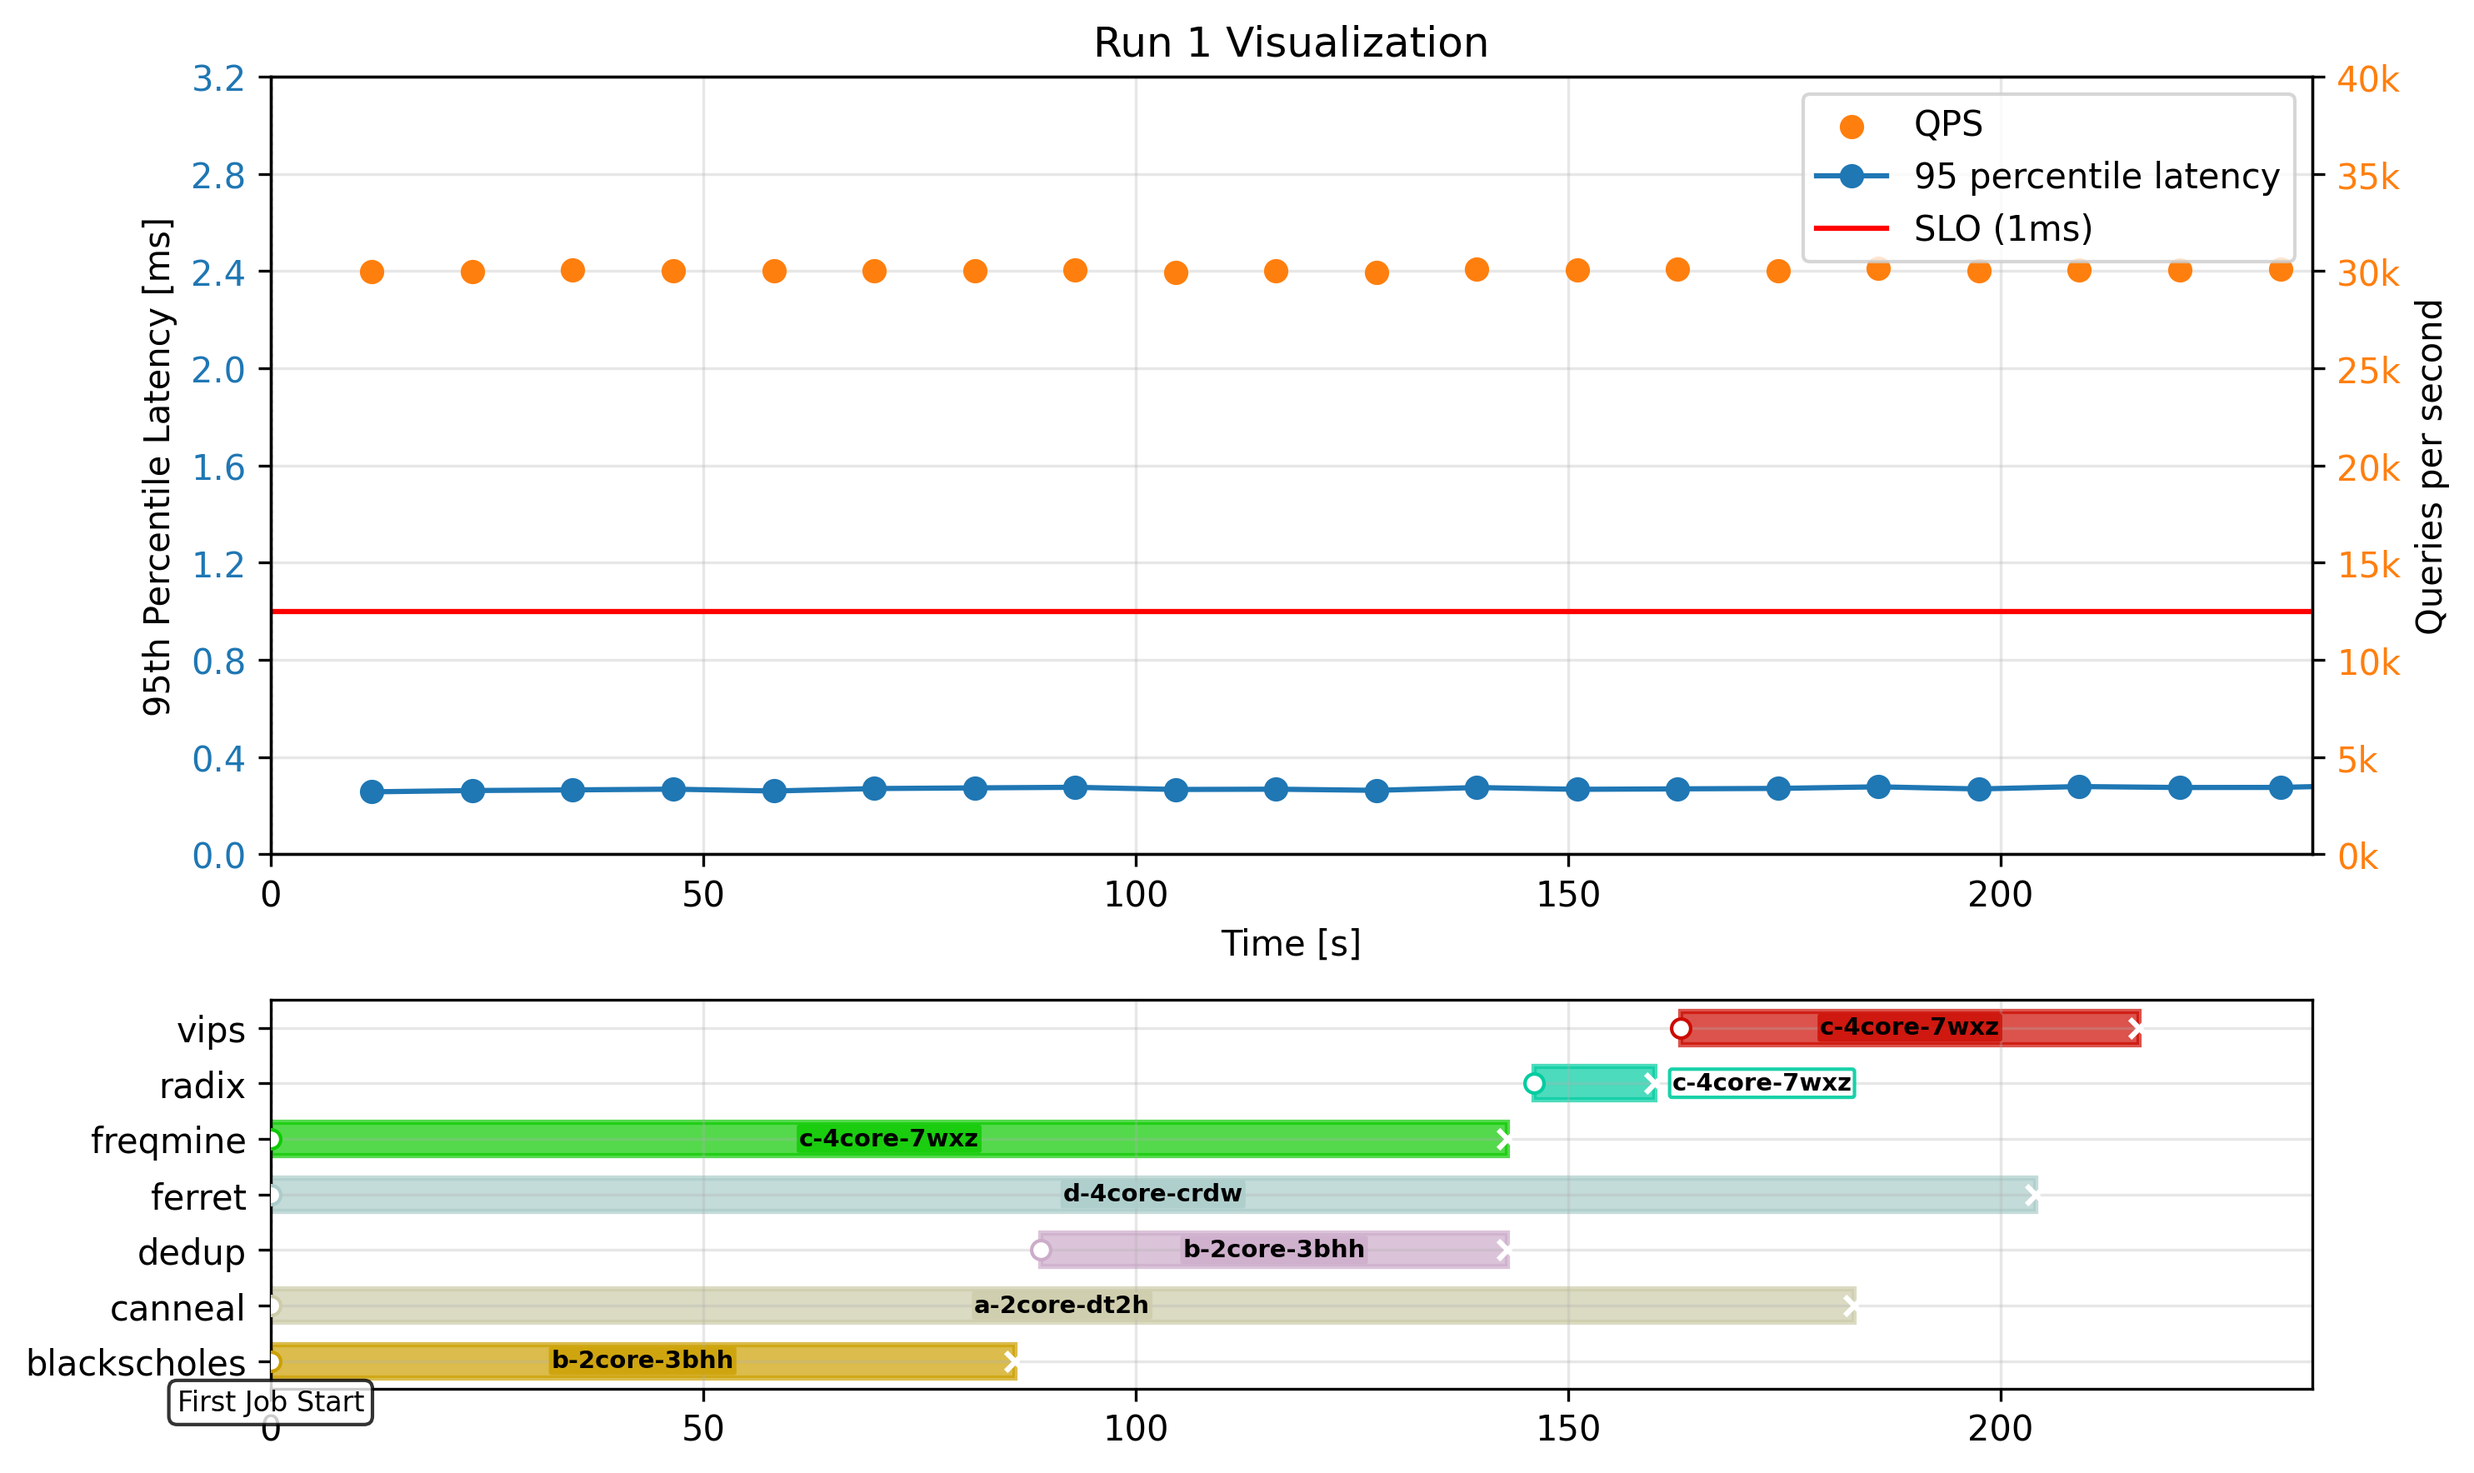
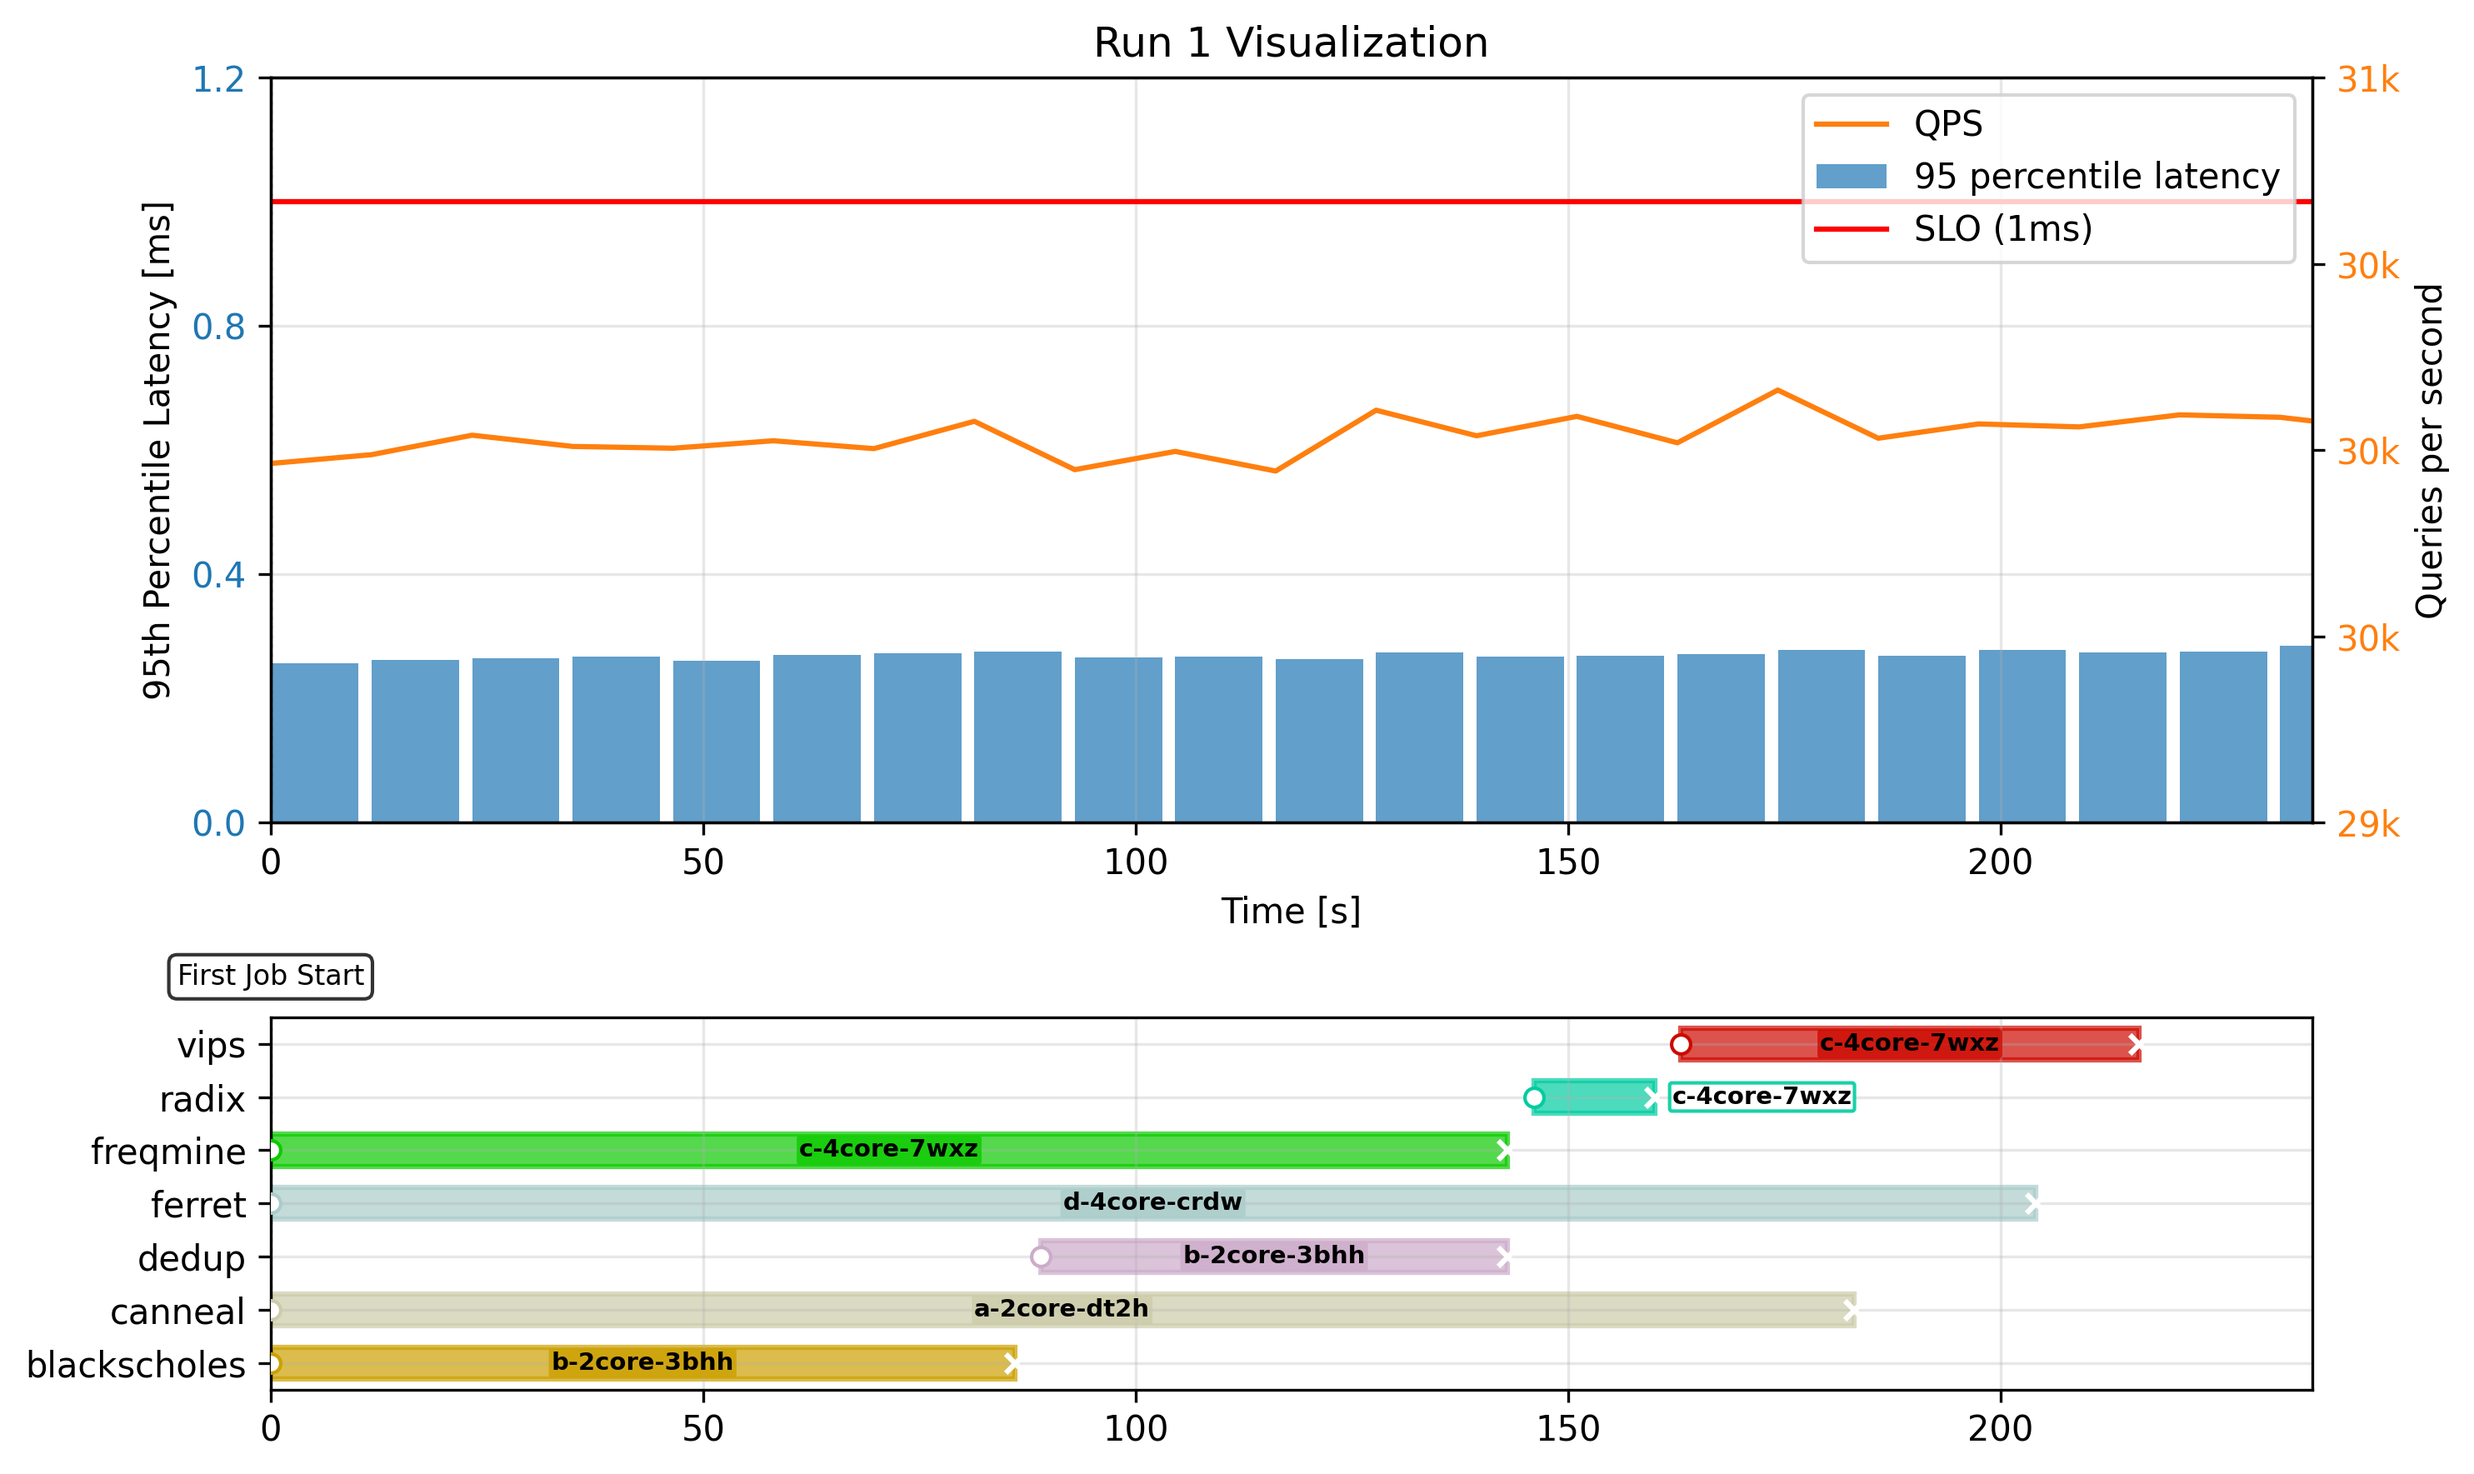
changed plots

diff --git a/part3/vis_plots.py b/part3/vis_plots.py
@@ -46,6 +46,8 @@ def parse_mcperf_data(file_path):
                 data.append(
                     {
                         "timestamp_ms": ts_mid_ms,
+                        "ts_start_ms": ts_start_ms,
+                        "ts_end_ms": ts_end_ms,
                         "p95_us": p95,  # Store original microseconds
                         "p95_ms": p95 / 1000,  # Convert to milliseconds
                         "qps": qps,
@@ -140,8 +142,9 @@ def process_pods_file(file_path):
 
 
 def create_plots(run_number):
-    mcperf_file = f"part_3_results_group_020/mcperf_{run_number}.txt"
-    pods_file = f"part_3_results_group_020/pods_{run_number}.json"
+    mcperf_file = os.path.abspath(f"part3/part_3_results_group_020/mcperf_{run_number}.txt")
+    pods_file = os.path.abspath(f"part3/part_3_results_group_020/pods_{run_number}.json")
+    
 
     if not os.path.exists(mcperf_file) or not os.path.exists(pods_file):
         print(f"Missing files for run {run_number}. Skipping.")
@@ -161,7 +164,7 @@ def create_plots(run_number):
     )
 
     # Convert timestamps to seconds relative to first job start
-    mcperf_df["timestamp"] = (mcperf_df["timestamp_ms"] - earliest_start_ms) / 1000
+    mcperf_df["timestamp"] = (mcperf_df["ts_start_ms"] - earliest_start_ms) / 1000
     events_df["timestamp"] = (events_df["timestamp_ms"] - earliest_start_ms) / 1000
 
     # Filter to include only data after the first job start (with a margin for visibility)
@@ -174,7 +177,7 @@ def create_plots(run_number):
 
     # Calculate experiment duration
     if not events_df.empty:
-        duration = max(events_df["timestamp"]) + 20  # Add margin at end
+        duration = max(events_df["timestamp"]) + 20
     else:
         duration = max(mcperf_df["timestamp"]) + 20
 
@@ -193,21 +196,25 @@ def create_plots(run_number):
     axA_95p.tick_params(axis="y", labelcolor="tab:blue")
 
     # Set y-axis limits and ticks for latency
-    max_latency = max(3.2, mcperf_df["p95_ms"].max() * 1.1)
+    max_latency = max(1.2, mcperf_df["p95_ms"].max() * 0.1)
     axA_95p.set_ylim([0, max_latency])
     axA_95p.set_yticks(np.arange(0, max_latency + 0.1, 0.4))
 
-    # Plot P95 latency line
-    (artistA_95p,) = axA_95p.plot(
-        mcperf_df["timestamp"],
-        mcperf_df["p95_ms"],
-        "o-",
+    min_start_ms = min(mcperf_df["ts_start_ms"])
+
+    # Plot P95 latency as vertical bars spanning from ts_start to ts_end
+    artistA_95p = axA_95p.bar(
+        (mcperf_df["ts_start_ms"] - min_start_ms) / 1000,  # left edge (start time in seconds)
+        mcperf_df["p95_ms"],  # height (latency value)
+        width=(mcperf_df["ts_end_ms"] - mcperf_df["ts_start_ms"]) / 1000,  # width (duration in seconds)
+        bottom=0,  # start from y=0
         color="tab:blue",
+        alpha=0.7,
+        align="edge",
         label="95 percentile latency",
     )
 
     # Add SLO threshold line (1ms)
-    # axA_95p.axhline(y=1.0, color="red", linestyle="-", linewidth=1.5)
     slo_line = axA_95p.axhline(y=1.0, color="red", linestyle="-", linewidth=1.5)
 
     # Add QPS on secondary y-axis
@@ -215,9 +222,9 @@ def create_plots(run_number):
     axA_QPS.set_ylabel("Queries per second")
 
     # Scale QPS axis appropriately
-    max_qps = max(40000, mcperf_df["qps"].max() * 1.1)
-    axA_QPS.set_ylim([0, max_qps])
-    axA_QPS.set_yticks(np.arange(0, max_qps + 1, 5000))
+    # max_qps = max(40000, mcperf_df["qps"].max() * 1.1)
+    axA_QPS.set_ylim([29000, 31000])
+    axA_QPS.set_yticks(np.arange(29000, 31001, 500))
     axA_QPS.yaxis.set_major_formatter(
         FuncFormatter(lambda x_val, tick_pos: "{:.0f}k".format(x_val / 1000))
     )
@@ -225,13 +232,13 @@ def create_plots(run_number):
     axA_QPS.grid(False)
 
     # Plot QPS points
-    artistA_QPS = axA_QPS.scatter(
-        mcperf_df["timestamp"], mcperf_df["qps"], color="tab:orange", label="QPS"
+    artistA_QPS = axA_QPS.plot(
+        (mcperf_df["ts_start_ms"] - min_start_ms) / 1000, mcperf_df["qps"], color="tab:orange", label="QPS"
     )
 
     # Add legend with SLO line included
     axA_QPS.legend(
-        [artistA_QPS, artistA_95p, slo_line],
+        [artistA_QPS[0], artistA_95p, slo_line],
         ["QPS", "95 percentile latency", "SLO (1ms)"],
         loc="upper right",
     )
@@ -389,7 +396,7 @@ def create_plots(run_number):
 
 
 # Run the visualization for all three runs
-for run in [1]:
+for run in [1,2,3]:
     print(f"\nProcessing run {run}...")
     create_plots(run)
 
